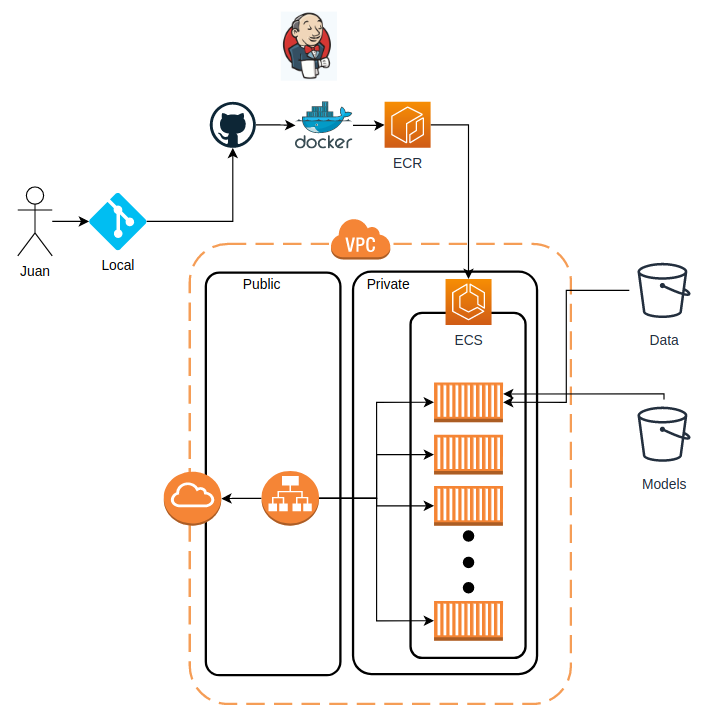
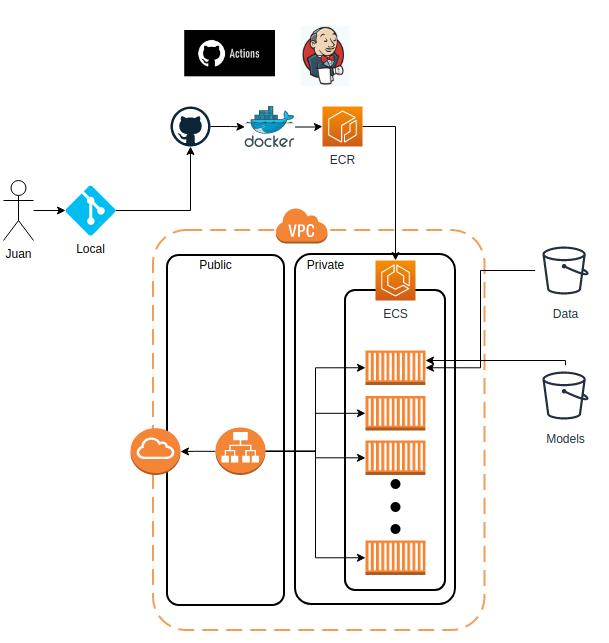
Updated README

Changed region(s): [[0.0, 0.0, 0.9672, 0.9953], [0.7488, 0.311, 0.78, 0.3421]]

diff --git a/README.md b/README.md
@@ -1,5 +1,8 @@
 # CHALLENGE MACHINE LEARNING ENGINEER
 
+*[UPDATE 15/04/2023]: Se actualizó la gestión de nombres de las imágenes registradas en ECR usando el formato latest-$NOW, donde NOW es la fecha actual. Ver push_to_ecr.yml*
+
+
 # Previo
 Antes de comenzar a desarrollar la solución al problema planteado, se realiza una estandarización de la estructura del proyecto. Aquí suponemos que esta estructura es conocida por todo el equipo. Al estructurar el proyecto de esta forma se deben hacer algunas modificaciones al notebook entregado, específicamente a las rutas definidas. Por ejemplo, la ruta "dataset_SCL.csv" ahora se indica como a "data/dataset_SCL.csv". A continuación se detalla la estructura del proyecto:
 
@@ -114,6 +117,6 @@ Los resultados obtenidos anteriormente pueden ser mejorados utilizando por ejemp
 
 # 6. Próximos pasos. 
 
-La implementación actual puede ser mejorada en varios aspectos. Por ejemplo, los modelos y la data actuales ocupan poco almacenamiento. En la realidad estos podrían llegar a crecer bastante. Sería mucho mas conveniente tener estos artefactos almacenados en la nube, por ejemplo aws S3. Por otro lado, la seguridad es importante y se debería implementar subnets separadas publicas y privadas para las tareas específicas de comunicarse con el exterior y correr los containers. Además, un balanceador de carga es necesario como se mencionó antes. De esta forma se levantarían nuevos containers a medida que la demanda aumenta. Finalmente, un software de automatización tipo jenkins facilitaría el proceso completo de build, test, stage y deploy de los modelos. A continuación se presenta un diagrama de ejemplo. 
+La implementación actual puede ser mejorada en varios aspectos. Por ejemplo, los modelos y la data actuales ocupan poco almacenamiento. En la realidad estos podrían llegar a crecer bastante. Sería mucho mas conveniente tener estos artefactos almacenados en la nube, por ejemplo aws S3. Por otro lado, la seguridad es importante y se debería implementar subnets separadas publicas y privadas para las tareas específicas de comunicarse con el exterior y correr los containers. Además, un balanceador de carga es necesario como se mencionó antes. De esta forma se levantarían nuevos containers a medida que la demanda aumenta. Si bien en este desarrollo se utilizó Github actions para construir y desplegar la solución, existen otras alternativas como jenkins u otras integradas en aws como Codebuilder. A continuación se presenta un diagrama de ejemplo. 
 
 ![](./media/NextSteps.png)
